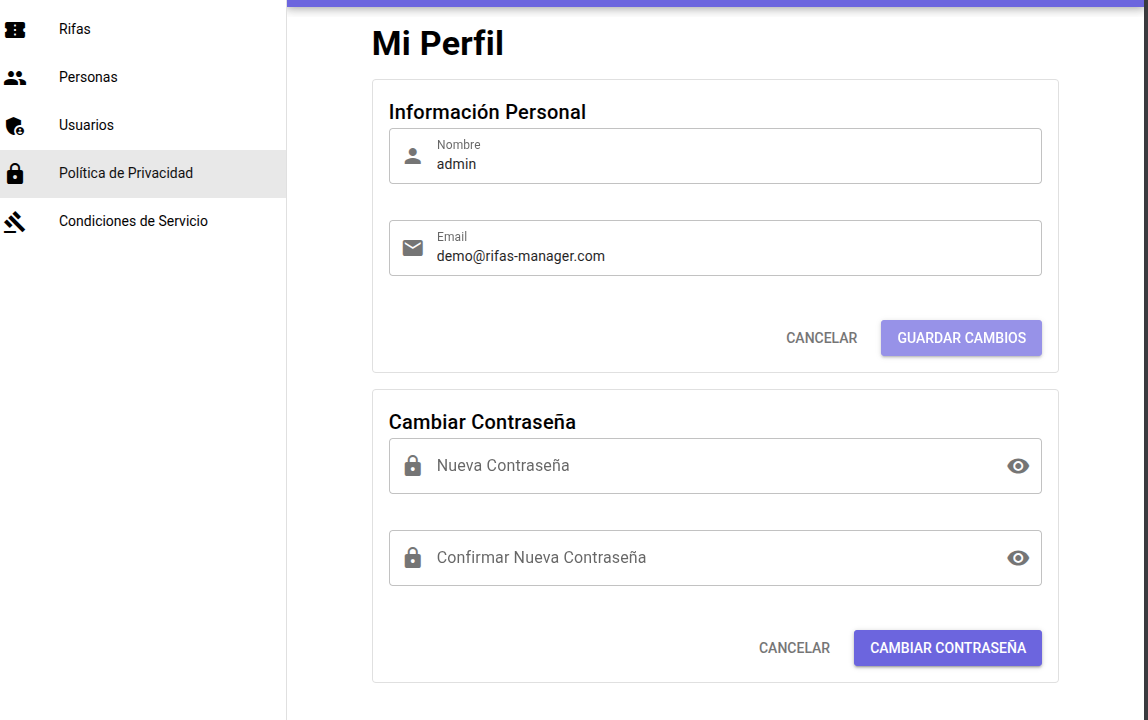
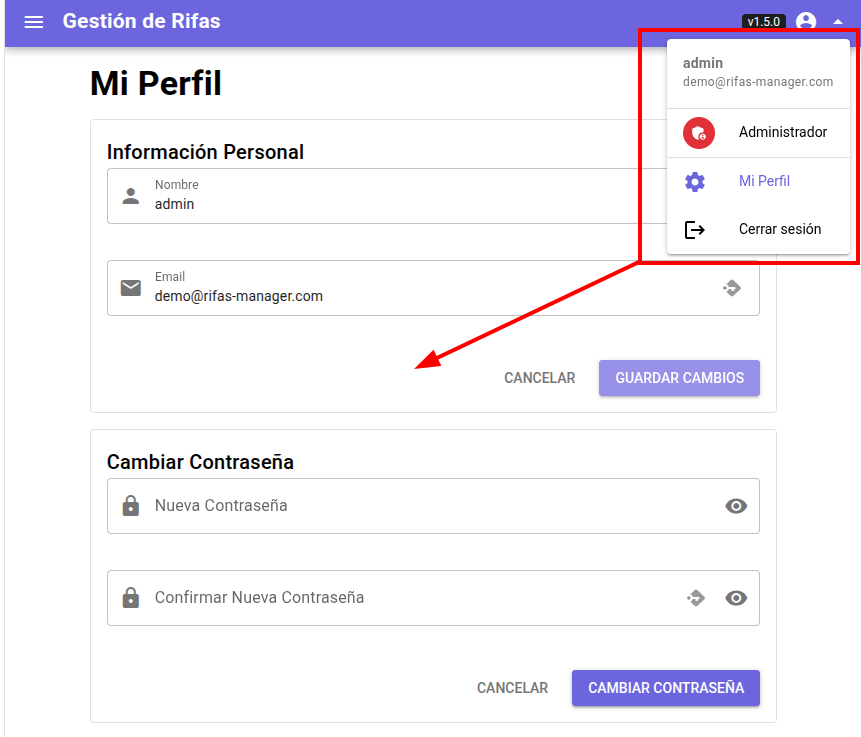
documentación

diff --git a/wiki/hackaton_cubepath.md b/wiki/hackaton_cubepath.md
@@ -1,4 +1,5 @@
 # Hackathon CubePath
+[TOC]
 
 ## Descripción del proyecto
 
@@ -25,7 +26,7 @@ el mantenimiento y la escalabilidad.
 
 Para este proyecto se ha utilizado CubePath sobre un VPS `gp.micro`.
 
-En ese servidor se ha desplegado Dokploy y, dentro de Dokploy, se han creado 3 servicios:
+En ese servidor se ha desplegado el servicio de **Dokploy** y, dentro de Dokploy, se han creado 3 servicios:
 
 1. Servicio de frontend con Quasar y Vue 3.
 2. Servicio de backend con una API desarrollada en NestJS.
@@ -33,3 +34,79 @@ En ese servidor se ha desplegado Dokploy y, dentro de Dokploy, se han creado 3 s
 
 Este enfoque permite gestionar despliegues de forma centralizada, separando claramente
 la capa de presentación, la lógica de negocio y la base de datos.
+
+Así mismo para cada una de las capas se han creado los registros dns a través de **Cloudflare** en modo proxy estricto para el control de trafico de red, Y en dockploy se ha levantado el servicio con letsencrypt para la comunicación con el DNS. 
+
+![dokploy.png](images/dokploy.png)
+
+## Uso de la aplicación 
+
+La experiencia frontend está pensada para que cualquier usuario pueda crear y resolver una rifa en pocos pasos, sin curva de aprendizaje.
+
+
+### 1) Inicio de sesión
+
+El usuario accede con sus credenciales y entra directamente al panel principal.
+
+![login](images/login.png)
+
+### Rifas
+
+Tras hacer login se muestra el listado de rifas.
+Desde esta vista se puede:
+
+- crear una nueva rifa,
+- revisar rifas existentes,
+- entrar al detalle para gestionar el sorteo.
+
+### 2) Crear una rifa
+
+El formulario solicita únicamente los datos clave (nombre, fecha, número de boletos y premios).
+El objetivo es que el alta sea rápida y guiada.
+
+![rifas_form](images/rifas_form.png)
+
+
+
+### 3) Gestionar la rifa
+
+En el detalle se centraliza toda la operativa:
+
+- alta y seguimiento de participantes,
+- control de boletos asignados,
+- revisión del estado general de la rifa.
+
+![rifas_detail](images/rifas_detail.png)
+
+
+
+### 4) Definir premios y ejecutar sorteo
+
+Una vez configurados los premios, el sistema ejecuta el sorteo y muestra el resultado de forma clara para su verificación.
+
+![rifas_prizes](images/rifas_prizes.png)
+
+
+
+El ganador queda registrado y visible desde la interfaz, facilitando la trazabilidad del proceso.
+
+![rifas_winner](images/rifas_winner.png)
+
+
+### 5) Gestión de participantes
+
+La vista de participantes permite buscar, validar y consultar el historial de cada persona para evitar errores y duplicidades.
+
+Así como crear o eliminar participantes.
+
+![persons_list](images/persons_list.png)
+
+
+### 6) Perfil
+
+El usuario puede consultar información de su perfil para cambiar datos de acceso. 
+
+> En la vesrión demo se ha capado la modificación de datos. del administrador
+
+
+![profile](images/profile.png)
